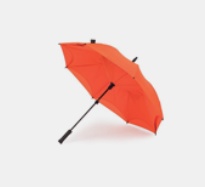
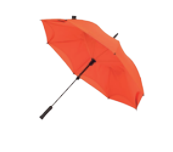
adjust some images
images from product are updated

Changed region(s): [[0.2312, 0.1053, 0.8382, 0.7895]]

diff --git a/pufi-app/src/containers/products.js b/pufi-app/src/containers/products.js
@@ -3,6 +3,10 @@ import Person_with_umbrella from "../images/person_with_umbrella.jpg"
 import Beach_puff from "../images/beach_puff.jpg"
 import Market_discharge from "../images/market_discharge.jpg"
 import Person_wiht_travel_pillow from "../images/person_wiht_travel_pillow.jpg"
+import Umbrella from "../images/umbrella.png"
+import Puff from "../images/puff.png"
+import Cart from "../images/cart.png"
+import Nap from "../images/nap.png"
 import "../scss/containers/_products.scss";
 
 
@@ -13,14 +17,56 @@ const Products = () => {
         <React.Fragment>
 
            <div className="products">
-                <img src={Person_with_umbrella} alt="Persona con paraguas"></img>
-                <img src="https://via.placeholder.com/600"></img>
-                <img src="https://via.placeholder.com/600"></img>
-                <img src={Beach_puff} alt="Persona descansando en un puff"></img>
-                <img src={Market_discharge} alt="Familia bajando las compras del coche"></img>
-                <img src="https://via.placeholder.com/600"></img>
-                <img src="https://via.placeholder.com/600"></img>
-                <img src={Person_wiht_travel_pillow} alt="Persona durmiendo con una almohada de viaje"></img>
+
+                <div className="pufi-image-with-button">                
+                    <img src={Person_with_umbrella} alt="Persona con paraguas"></img>
+                    <button>S H O P</button>
+                </div>
+
+                <div className="pufi-info">
+                    <img src={Umbrella} alt="Paraguas"></img>
+                    <h3>Pufi RAIN</h3>
+                    <span></span>
+                    <p>Descripcion del producto. Este es un texto simulado</p>
+                    <button>» VER MÁS</button>
+                </div>
+
+                <div className="pufi-info">
+                    <img src={Puff} alt="Pufi Puff"></img>
+                    <h3>Pufi PUFF</h3>
+                    <span></span>
+                    <p>Descripcion del producto. Este es un texto simulado</p>
+                    <button>» VER MÁS</button>
+                </div>   
+
+                <div className="pufi-image">   
+                    <img src={Beach_puff} alt="Persona descansando en un puff"></img>
+                </div>
+
+                <div className="pufi-image">     
+                    <img src={Market_discharge} alt="Familia bajando las compras del coche"></img>
+                </div>
+
+                <div className="pufi-info"> 
+                    <img src={Cart} alt="Pufi Puff"></img>
+                    <h3>Pufi PUFF</h3>
+                    <span></span>
+                    <p>Descripcion del producto. Este es un texto simulado</p>
+                    <button>» VER MÁS</button>
+                </div>
+
+                <div className="pufi-info">
+                    <img src={Nap} alt="Pufi Puff"></img>
+                    <h3>Pufi PUFF</h3>
+                    <span></span>
+                    <p>Descripcion del producto. Este es un texto simulado</p>
+                    <button>» VER MÁS</button>         
+                </div>
+                
+                <div className="pufi-image">
+                    <img src={Person_wiht_travel_pillow} alt="Persona durmiendo con una almohada de viaje"></img>
+                </div>
+            
            </div>
 
         </React.Fragment>

diff --git a/pufi-app/src/scss/containers/_products.scss b/pufi-app/src/scss/containers/_products.scss
@@ -1,10 +1,121 @@
 .products {
+    height: 90%;
+
     display: grid;
     grid-template-columns: repeat(2, 1fr);
     grid-template-rows: repeat(3, 1fr);
 
-    img{
-        width: 100%;
-        height: 100%;
+
+    //IMAGEN CON BOTÓN
+
+    .pufi-image-with-button {
+        
+        display: flex;
+        justify-content: center;
+        align-items: center;
+        position: relative;
+
+        img{
+            width: 100%;
+            height: 100%;
+        }
+
+        button {
+
+            color: white;
+            border: white 0.15em solid;
+            background-color: transparent;
+            padding: 1.5em 2.5em;
+            font-size: 20px;
+            cursor: pointer;
+            position: absolute;
+
+        }
     }
+
+    //OPACIDAD
+
+    .pufi-image-with-button::before {
+        background-color: rgba(0, 0, 0, 0.37);
+        content: '';
+        display: block;
+        height: 100%;
+        position: absolute;
+        width: 100%;
+
+    }
+
+    //IMAGEN SIN BOTON
+
+    .pufi-image{
+
+        display: flex;
+        justify-content: center;
+        align-items: center;
+        position: relative;
+
+        img{
+            width: 100%;
+            height: 100%;
+        }
+    }
+
+    //OPACIDAD
+
+    .pufi-image::before {
+        background-color: rgba(0, 0, 0, 0.37);
+        content: '';
+        display: block;
+        height: 100%;
+        position: absolute;
+        width: 100%;
+
+    }
+
+    //INFO DEL PRODUCTO
+
+
+    .pufi-info {
+
+        width: 100%;
+        display: flex;
+        flex-direction: column;
+        justify-content: center;
+        align-items: center;
+
+        img {
+            width: 25%;
+        }
+
+        h3 {
+            text-align: center;
+            font-size: 2em;
+        }
+
+        span {
+            width: 2.5em;
+            height: 0.1em;
+            margin-bottom: 1em;
+            border-radius: 50%;
+            background-color: black;
+        }
+
+        p {
+            font-size: larger;
+            width: 15em;
+            text-align: center;
+            margin: 1em;
+        }
+
+        button {
+            background-color: transparent;
+            padding: 1.5em 2.5em;
+            font-size: 20px;
+            cursor: pointer;
+
+        }
+
+    }
+
+
 }

diff --git a/pufi-app/src/containers/social.js b/pufi-app/src/containers/social.js
@@ -1,0 +1,23 @@
+import React from "react";
+import "../scss/containers/_subscribe.scss";
+
+const Social = () => {
+
+    return(
+
+        <React.Fragment>
+
+            <div className="container">
+                <h5>INSTAGRAM</h5>
+                <h2>#ESPUFI</h2>
+                <div className="collage">
+                    <img src="https://i.imgur.com/HUdAvzi.png" alt="collage"></img>
+                </div>
+            </div>
+
+        </React.Fragment>
+
+    );
+    
+}
+export default Social;

diff --git a/pufi-app/src/scss/style.css b/pufi-app/src/scss/style.css
@@ -26,7 +26,7 @@
   -o-object-fit: cover;
      object-fit: cover;
   width: 100%;
-  height: 100vh;
+  height: 56.2em;
   position: absolute;
   z-index: -1;
 }
@@ -124,12 +124,11 @@
   cursor: pointer;
 }
 
-.products {
-  display: grid;
-  grid-template-columns: repeat(2, 1fr);
-  grid-template-rows: repeat(3, 1fr);
-}
-
+/*.products {
+    display: grid;
+    grid-template-columns: repeat(2, 1fr);
+    grid-template-rows: repeat(3, 1fr);
+}*/
 .container {
   display: flex;
   flex-direction: column;

diff --git a/pufi-app/src/components/body.js b/pufi-app/src/components/body.js
@@ -1,5 +1,6 @@
 import React from "react"; 
 import Products from "../containers/products";
+import Social from "../containers/social";
 import Subscribe from "../containers/subscribe";
 
 export const Body = () => {
@@ -9,6 +10,7 @@ export const Body = () => {
     <React.Fragment>
         <section className="body">
             <Products />
+            <Social />
             <Subscribe />
         </section>
     </React.Fragment>

diff --git a/pufi-app/src/scss/containers/_subscribe.scss b/pufi-app/src/scss/containers/_subscribe.scss
@@ -1,8 +1,8 @@
-.products {
+/*.products {
     display: grid;
     grid-template-columns: repeat(2, 1fr);
     grid-template-rows: repeat(3, 1fr);
-}
+}*/
 
 .container {
     display: flex;

diff --git a/pufi-app/src/scss/style.scss b/pufi-app/src/scss/style.scss
@@ -5,3 +5,5 @@
 @import './components/body';
 @import './components/body';
 @import './containers/subscribe';
+@import './containers/social';
+@import './containers/products';

diff --git a/pufi-app/src/scss/components/_header.scss b/pufi-app/src/scss/components/_header.scss
@@ -17,7 +17,7 @@
 .background {
     object-fit: cover;
     width: 100%;
-    height: 100vh;
+    height: 56.2em;
     position: absolute;
     z-index: -1;
 }
